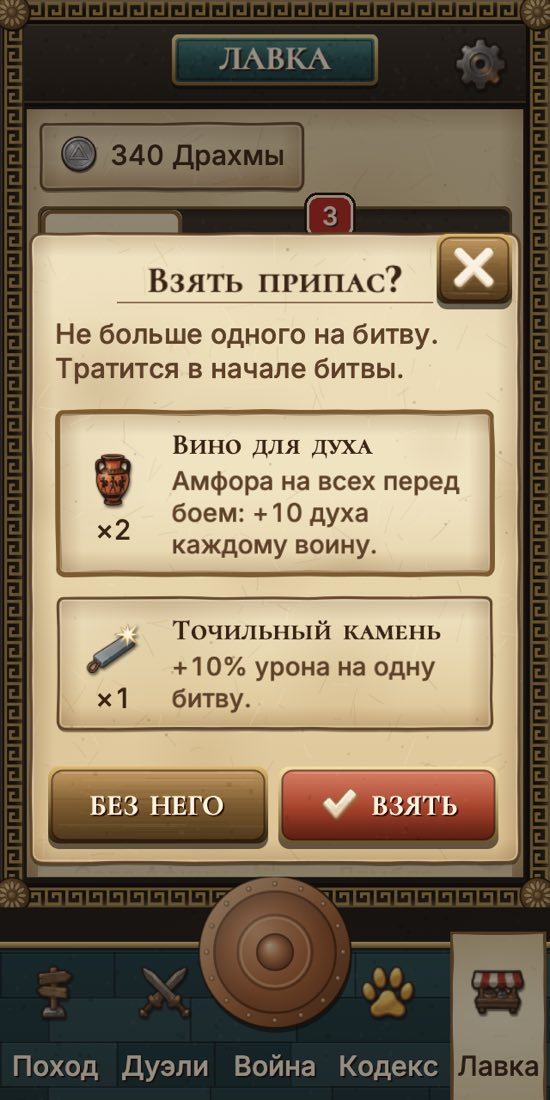
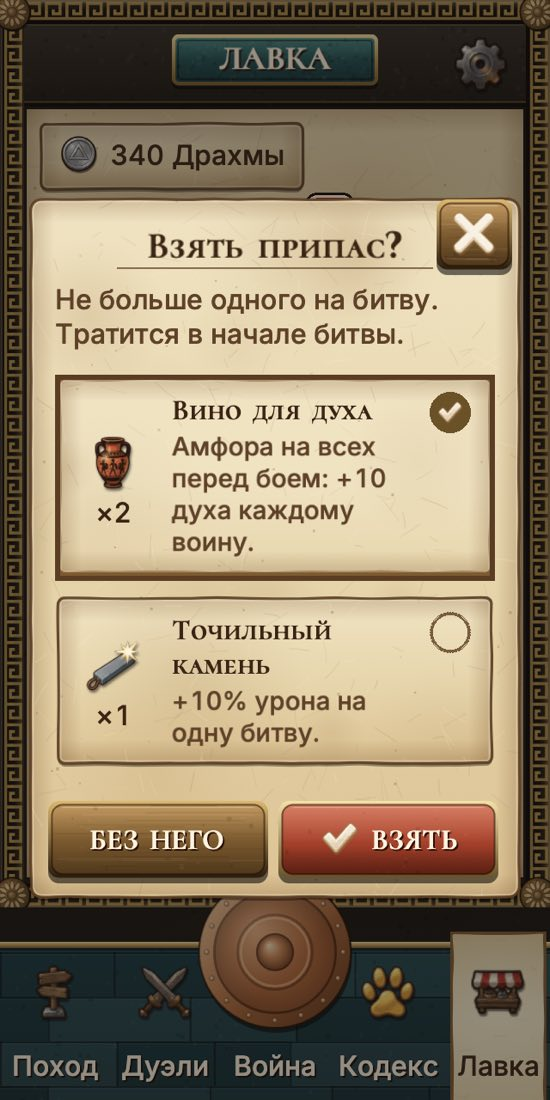
fix(econ): picked consumable reads by shape: check in a bronze disc and an inked rim, empty ring otherwise (DLG-02, G13)

diff --git a/src/ui/econ/consumablePicker.ts b/src/ui/econ/consumablePicker.ts
@@ -21,7 +21,7 @@ import Phaser from 'phaser';
 import type { UiScene } from '../widgets';
 import { uiId } from '../layout';
 import { LINE_H, measureText } from '../textfit';
-import { ScrollArea } from '../kit';
+import { ScrollArea, addIcon, scaleIcon } from '../kit';
 import { addScrollHint } from '../widgets';
 import { MOSAIC } from '../tokens';
 import { addRowFace, mtext, mw, openParchmentSheet, sheetActionsH, SHEET_TITLE_H, wrapWords, type MButtonOpts } from '../mosaic';
@@ -60,6 +60,8 @@ export async function pickBattleConsumable(scene: UiScene, o: PickOpts = {}): Pr
 const PAD = 8;
 const ICON = 18;
 const DESC = 6.5;
+/** Room at the row's right for the pick mark (a ring, or a check in a bronze disc). */
+const MARK = 14;
 /** Height of `n` lines of text at `size`. */
 const linesH = (n: number, size = 7) => Math.ceil((n * LINE_H * size) / 7);
 
@@ -67,7 +69,7 @@ const linesH = (n: number, size = 7) => Math.ceil((n * LINE_H * size) / 7);
 function rowText(id: ConsumableId, qty: number, w: number): { name: string[]; qty: string; desc: string[]; h: number } {
   const d = CONSUMABLES[id];
   const q = `×${fmtCount(qty)}`;
-  const tx = w - PAD * 2 - ICON - PAD;
+  const tx = w - PAD * 2 - ICON - PAD - MARK;
   const name = wrapWords(tOr(`consumable.${id}.name`, d.name), tx, (s) => mw(s, 'rInk', 7));
   const desc = wrapWords(tOr(`consumable.${id}.desc`, d.desc), tx, (s) => mw(s, 'pSec', DESC));
   return { name, qty: q, desc, h: Math.max(30, 6 + linesH(name.length) + 1 + linesH(desc.length, DESC) + 5) };
@@ -138,6 +140,19 @@ function openPicker(scene: UiScene, held: ConsumableId[], inv: Partial<Record<st
       const tx = PAD + ICON + PAD;
       r.add(mtext(scene, tx, 6, rt.name.join('\n'), 'rInk', { size: 7 }));
       r.add(mtext(scene, tx, 7 + linesH(rt.name.length), rt.desc.join('\n'), 'pSec', { size: DESC }));
+      // the pick reads by shape, not colour alone (G13): a check in a bronze disc and an inked rim, else an empty ring
+      const g = scene.add.graphics();
+      const mx = inner - PAD - 5;
+      if (on) {
+        g.lineStyle(1.5, MOSAIC.parchEdge, 1).strokeRect(0.75, 0.75, inner - 1.5, rt.h - 1.5);
+        g.fillStyle(MOSAIC.meanderLo, 1).fillCircle(mx, 11, 6);
+      } else g.lineStyle(1, MOSAIC.parchEdge, 0.8).strokeCircle(mx, 11, 5.5);
+      r.add(g);
+      if (on) {
+        const ck = scaleIcon(addIcon(scene, 0, 0, 'check', 'L'), 0.67);
+        ck.setPosition(Math.round(mx - ck.displayWidth / 2), Math.round(11 - ck.displayHeight / 2));
+        r.add(ck);
+      }
       makePressable(r, {
         w: inner,
         h: rt.h,
